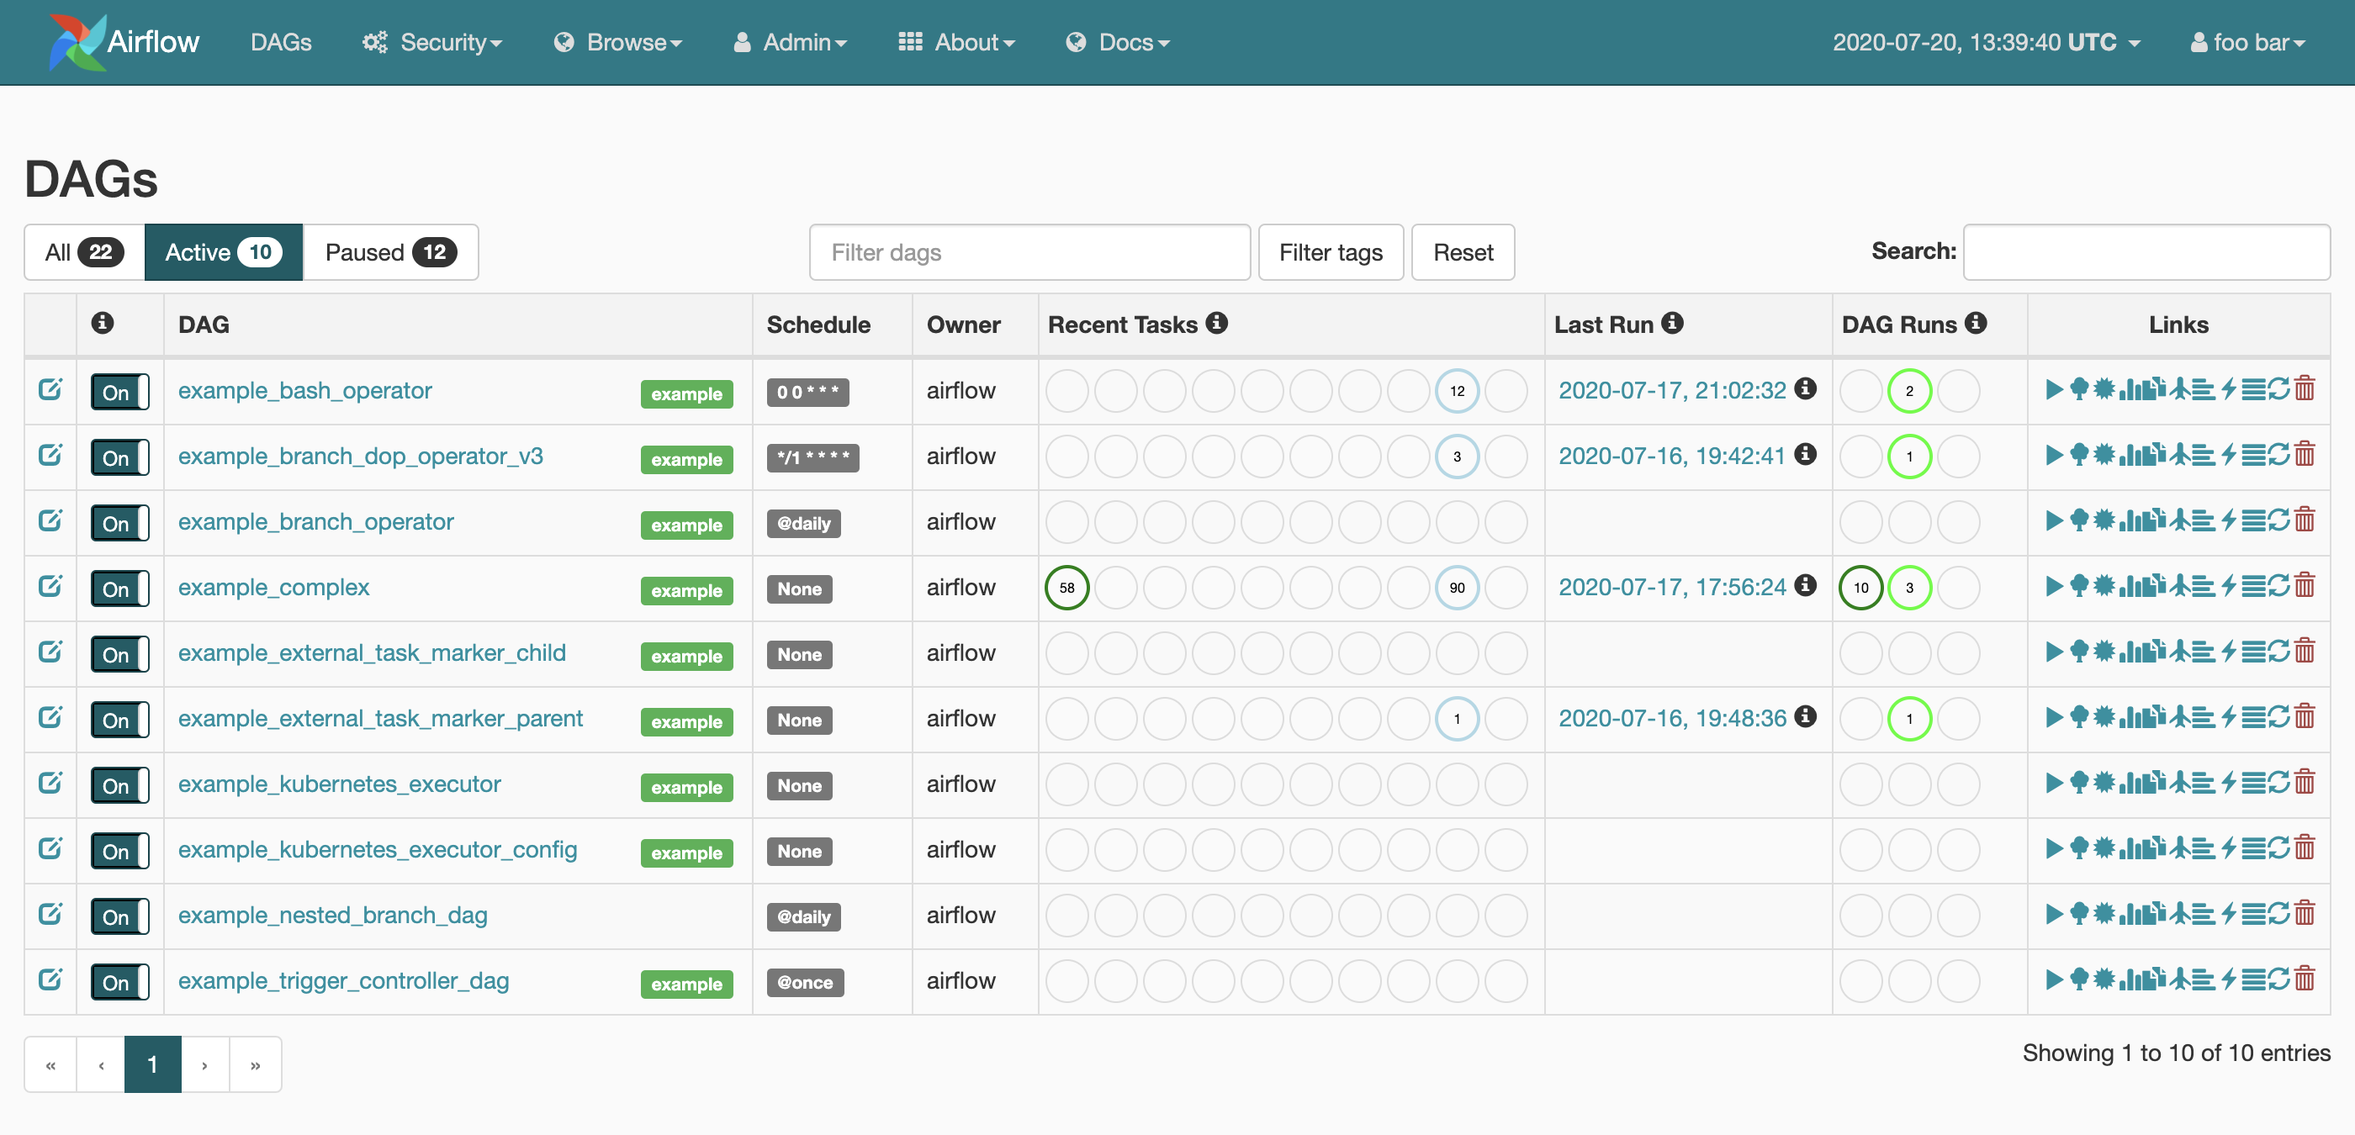
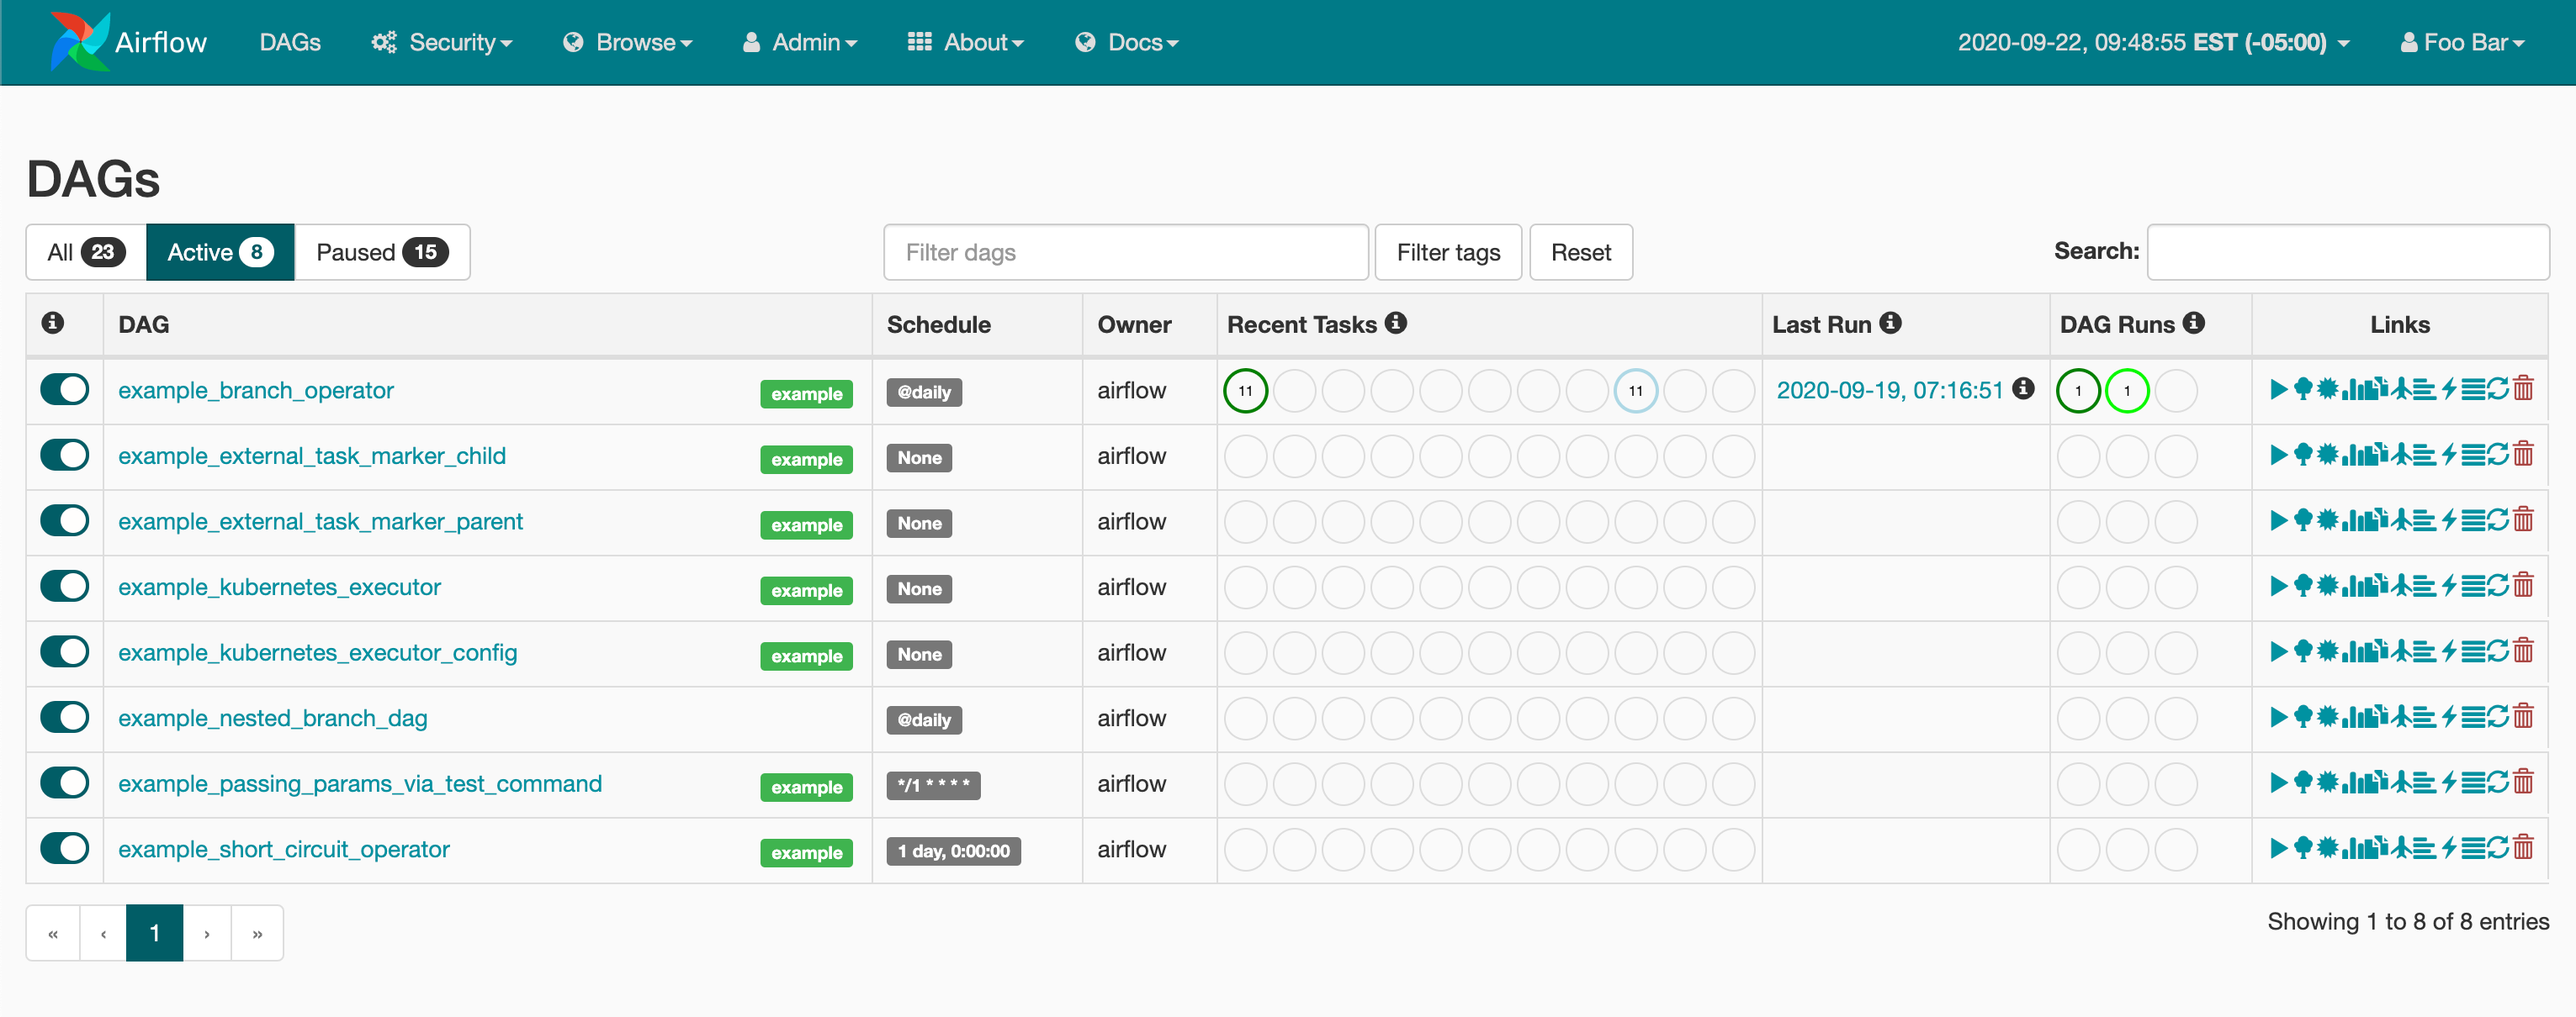
Remove link to Dag Model view given the redundancy with DAG Details view (#11082)

diff --git a/airflow/www/templates/airflow/dag_details.html b/airflow/www/templates/airflow/dag_details.html
@@ -36,6 +36,14 @@
   </div>
   <br>
   <table class="table table-striped table-bordered">
+    {% if dag.parent_dag is defined and dag.parent_dag %}
+      <tr>
+        <th>Parent DAG</th>
+        <td>
+          <a href="{{ url_for('Airflow.' + dag.default_view, dag_id=dag.parent_dag.dag_id) }}">{{ dag.parent_dag.dag_id }}</a>
+        </td>
+      </tr>
+    {% endif %}
     <tr>
       <th>Schedule Interval</th>
       <td>{{ dag.schedule_interval }}</td>
@@ -75,6 +83,24 @@
     <tr>
       <th>Owner</th>
       <td>{{ dag.owner }}</td>
+    </tr>
+    <tr>
+      <th>Tags</th>
+      <td>
+        {% if tags is defined and tags %}
+          {% for tag in tags | sort(attribute='name') %}
+            <a class="label label-success"
+               href="/home?tags={{ tag.name }}"
+               style="margin: 3px;"
+               title="All DAGs tagged &ldquo;{{ tag.name }}&rdquo;"
+            >
+               {{ tag.name }}
+            </a>
+          {% endfor %}
+        {% else %}
+          None
+        {% endif %}
+      </td>
     </tr>
   </table>
 {% endblock %}

diff --git a/airflow/www/templates/airflow/dags.html b/airflow/www/templates/airflow/dags.html
@@ -70,7 +70,6 @@
     <table id="dags" class="table table-striped table-bordered table-hover">
       <thead>
         <tr>
-          <th></th>
           <th width="12">
             <span id="pause_header" class="glyphicon glyphicon-info-sign" title="Use this toggle to pause a DAG. The scheduler won't schedule new tasks instances for a paused DAG. Tasks already running at pause time won't be affected."></span>
           </th>
@@ -93,13 +92,6 @@
       <tbody>
         {% for dag in dags %}
           <tr>
-            <!-- Column 1: Edit dag -->
-            <td class="text-center" style="width:10px;">
-              <a href="{{ url_for('DagModelView.show', pk=dag.dag_id) }}" title="Info">
-                <span class="glyphicon glyphicon-edit" aria-hidden="true"></span>
-              </a>
-            </td>
-
             <!-- Column 2: Turn dag on/off -->
             <td>
               <label class="switch-label js-tooltip" title="Pause/Unpause DAG">

diff --git a/airflow/www/views.py b/airflow/www/views.py
@@ -790,9 +790,19 @@ class Airflow(AirflowBaseView):  # noqa: D101  pylint: disable=too-many-public-m
             external_trigger=False
         )
 
+        tags = session.query(models.DagTag).filter(
+            models.DagTag.dag_id == dag_id).all()
+
         return self.render_template(
             'airflow/dag_details.html',
-            dag=dag, title=title, root=root, states=states, State=State, active_runs=active_runs)
+            dag=dag,
+            title=title,
+            root=root,
+            states=states,
+            State=State,
+            active_runs=active_runs,
+            tags=tags
+        )
 
     @expose('/rendered')
     @has_dag_access(can_dag_read=True)
